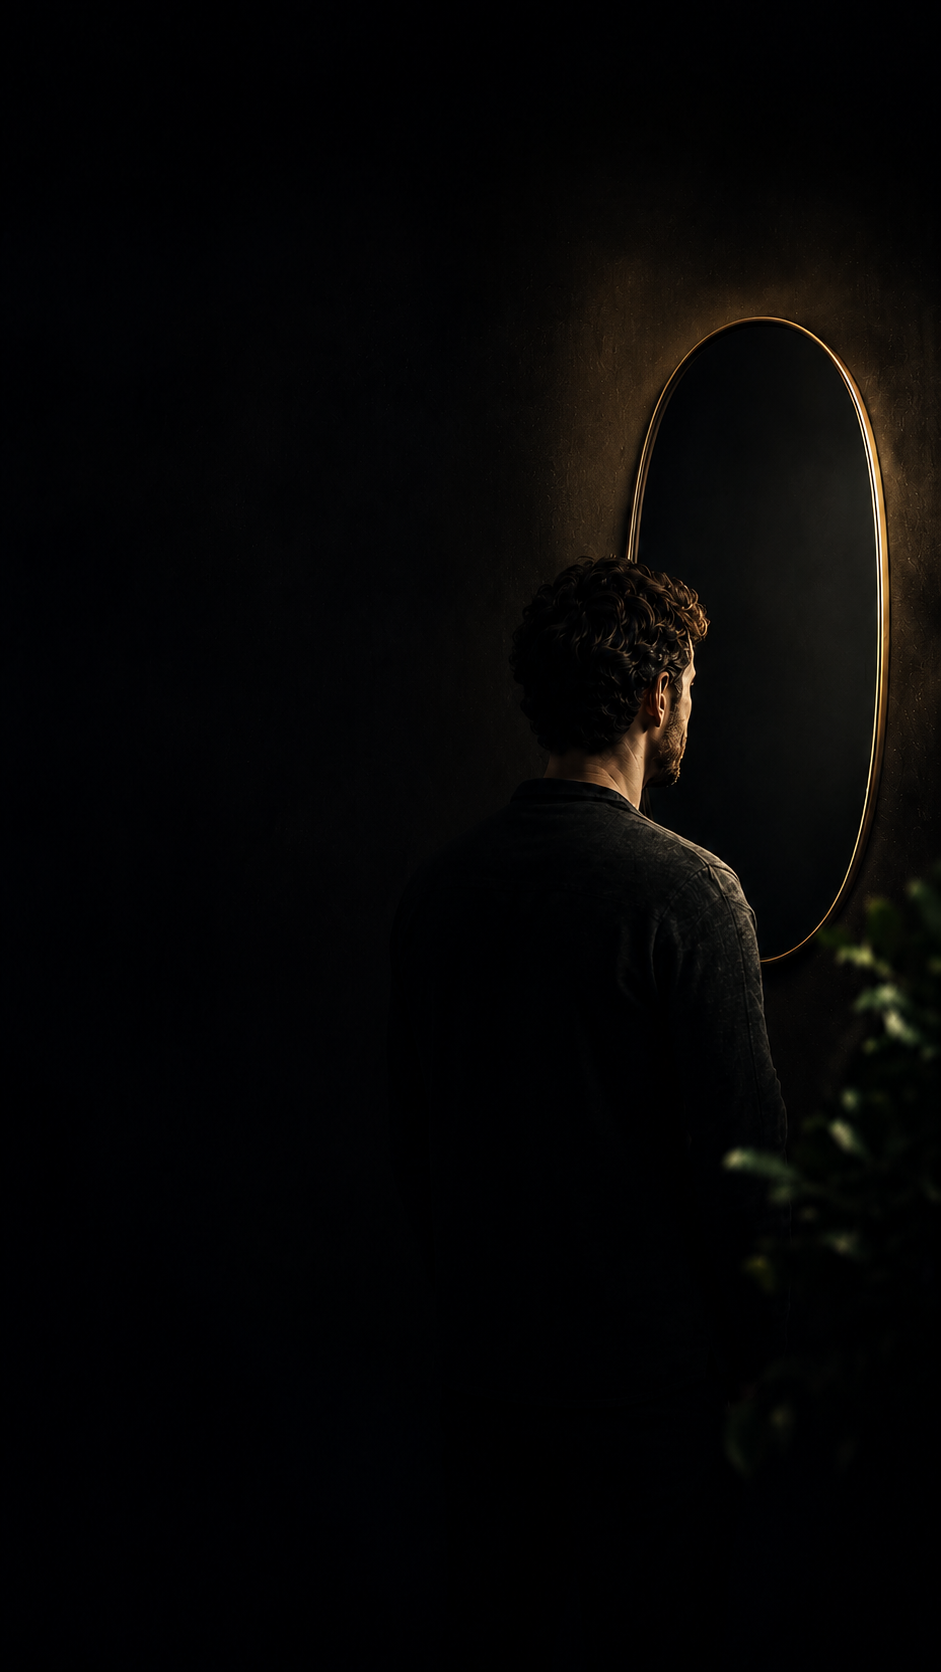
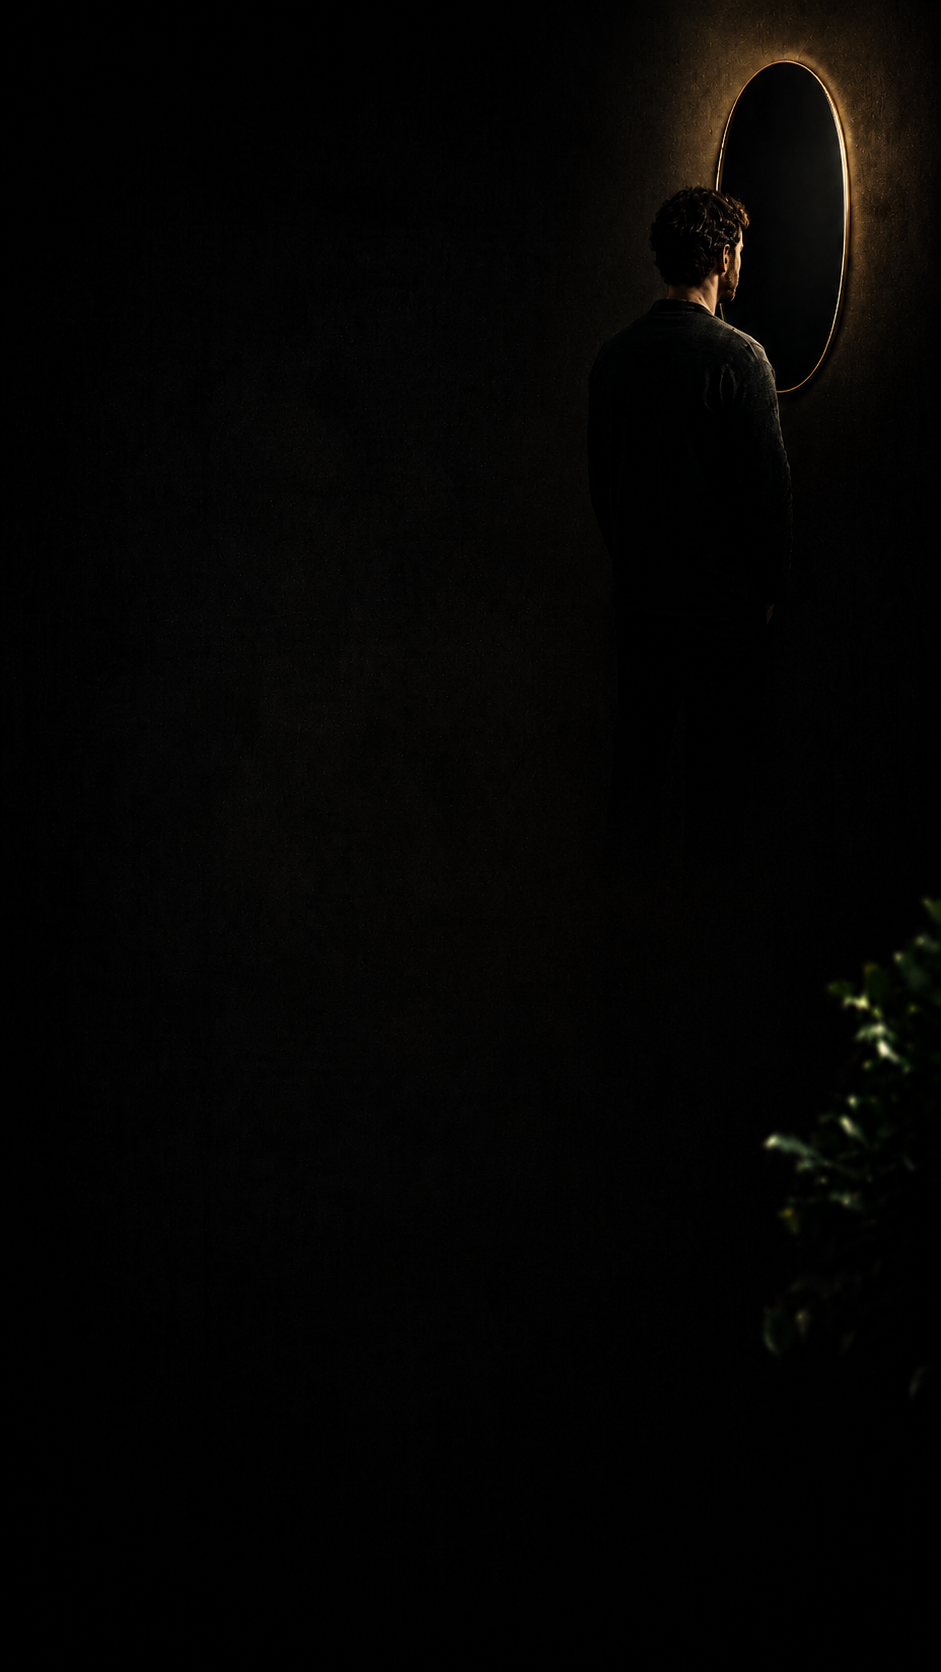
Ajusta hero mobile Ponto Cego

diff --git a/components/hero/Hero.tsx b/components/hero/Hero.tsx
@@ -107,7 +107,7 @@ export default function Hero() {
           fill
           priority
           sizes="100vw"
-          className="object-cover object-[70%_top] opacity-95 -translate-y-12 scale-[1.05] md:translate-y-0 md:scale-100"
+          className="object-cover object-[70%_top] opacity-95 -translate-y-11 scale-[1.05] md:translate-y-0 md:scale-100"
         />
 
         <div className="absolute inset-0 bg-[linear-gradient(90deg,rgba(5,7,5,0.98)_0%,rgba(5,7,5,0.92)_38%,rgba(5,7,5,0.55)_67%,rgba(5,7,5,0.82)_100%)]" />